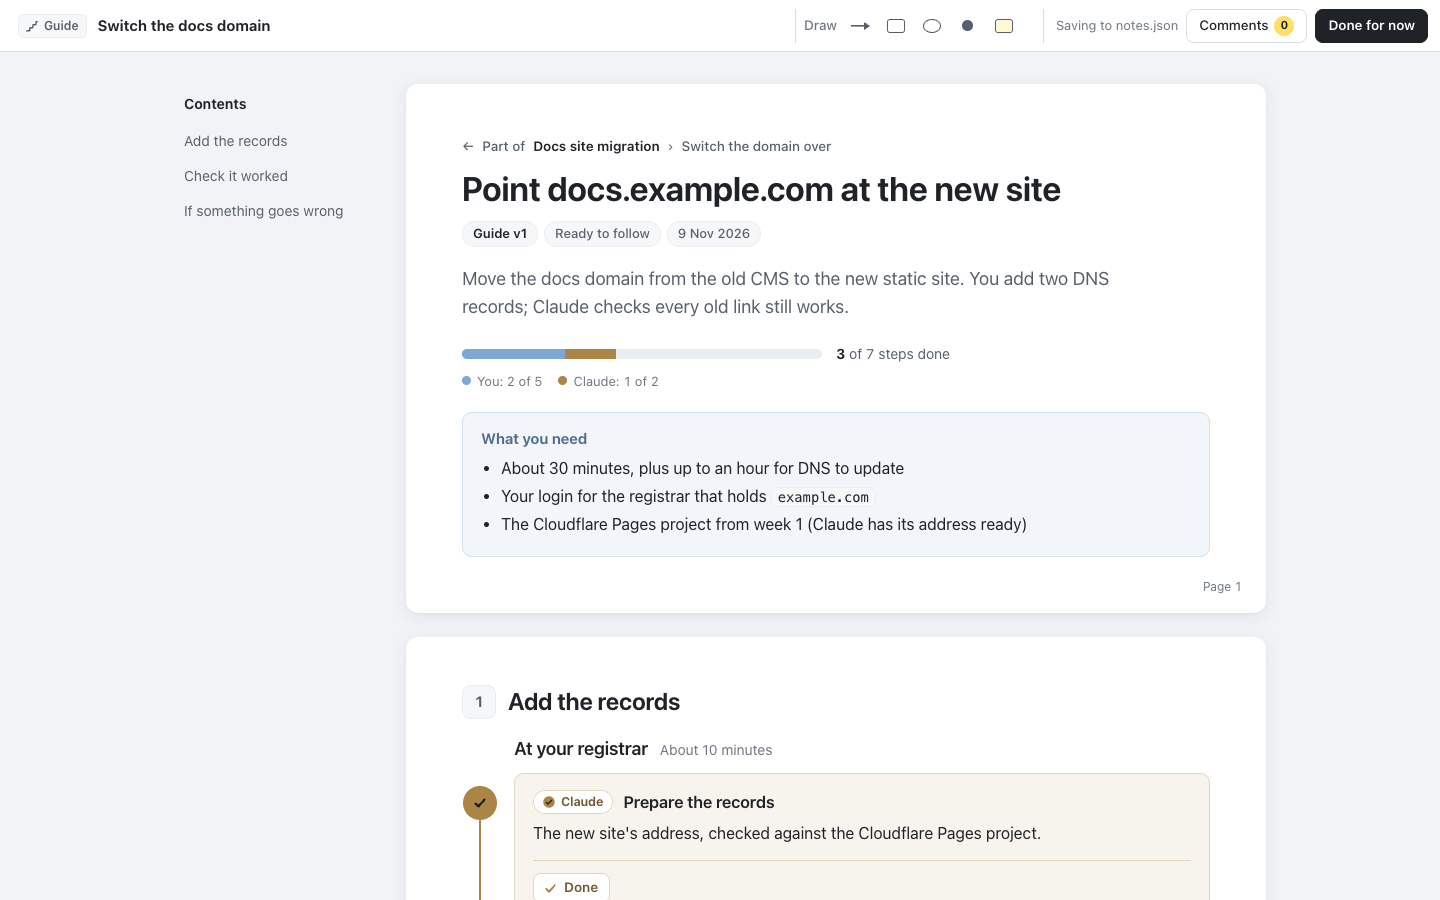
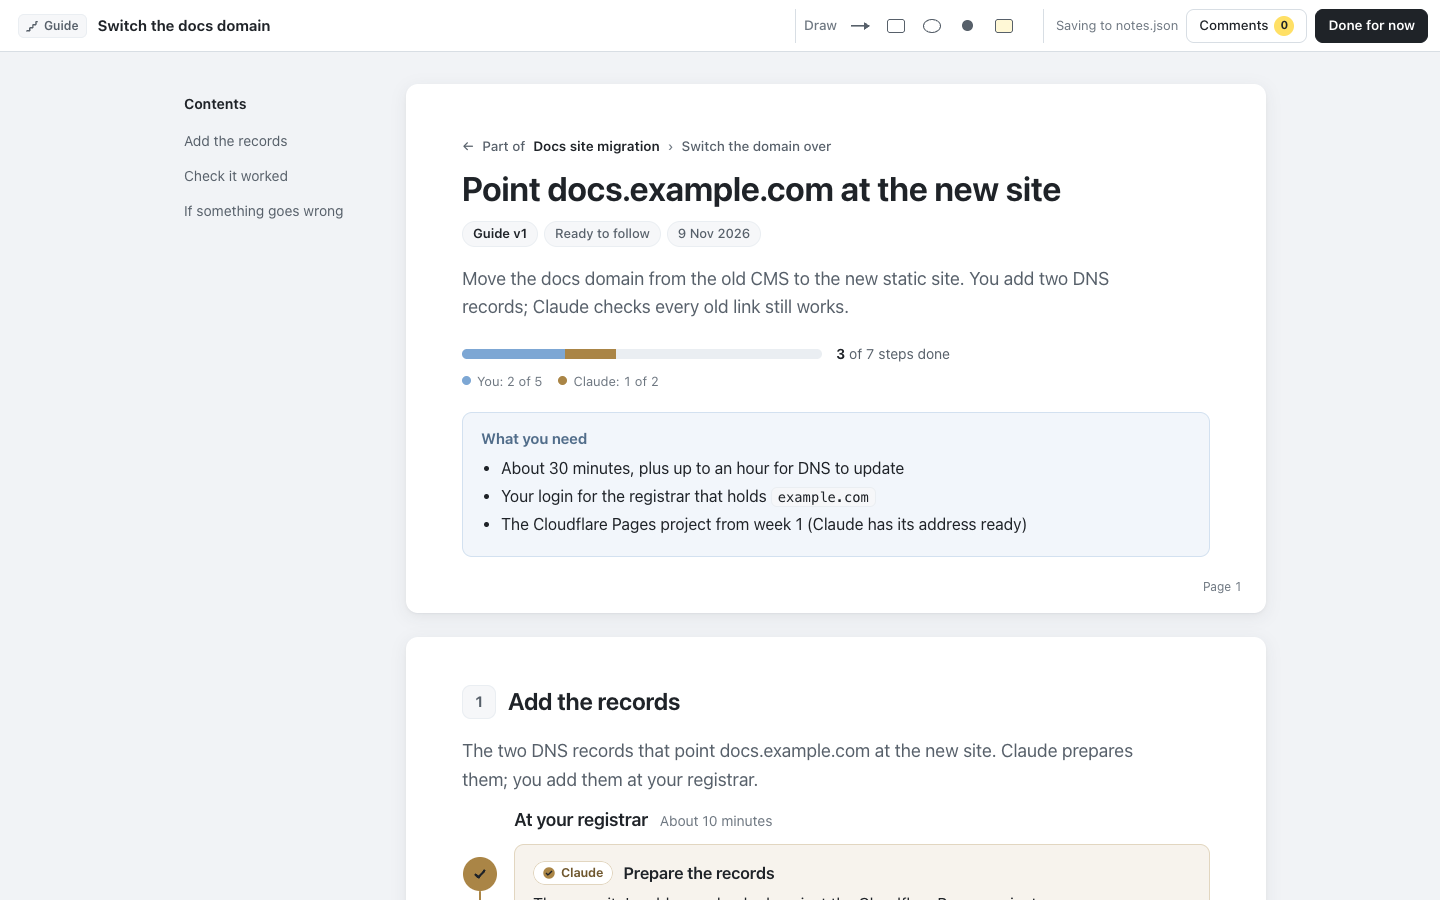
Every section opens with a one-sentence summary
All three templates and their writing skills: a lede after every section's
h2 saying what it covers and why it's there. In a plan, a section that
describes what gets built says so and names the phase that builds it.
process-notes brings older pages up to the rule as it revises them.

Changed region(s): [[0.3125, 0.8089, 0.7812, 0.9956], [0.5938, 0.9956, 0.6562, 1.0]]

diff --git a/templates/plan.html b/templates/plan.html
@@ -24,6 +24,7 @@
     <ul class="tasks">              optional, Claude's phases only: a short checklist, <li data-status="todo|doing|done">
     <pre data-label="Terminal">     a code block; the label shows in its header ("Terminal", "redirects.json"…)
     <section class="sec" id data-id> a major part; gets a section comment; one per contents entry
+    <p class="lede"> after a section's h2   one sentence: what the section covers and why it's here
     .decision[data-decision]        a pick-one question; .rec marks the recommendation
     aside.explain[data-q]           Claude's answer to a reader's question, written where it was asked
     data-changed="v2"               an element revised in v2: shown with an "Updated in v2" chip
@@ -329,6 +330,7 @@ dl.defs > dd p { margin: 6px 0 0; }
 
 <section class="sec" id="context" data-id="context">
   <h2>Where we are</h2>
+  <p class="lede">How the docs work today, and the options we compared before picking one.</p>
   <div class="entry item" data-id="ctx-stale"><div class="k">Stale pages</div><div class="stat">18 of 60</div><p>Pages describing options that have since changed.</p></div>
   <div class="entry item" data-id="ctx-time"><div class="k">Time to publish</div><div class="stat">About a day</div><p>Edits go through a separate CMS and a manual deploy.</p></div>
   <h3>Options compared</h3>
@@ -344,6 +346,7 @@ dl.defs > dd p { margin: 6px 0 0; }
 
 <section class="sec" id="approach" data-id="approach">
   <h2>How it works</h2>
+  <p class="lede">What the finished docs site does: the design, not the work. The <a href="#phases">phases</a> build it, starting with Scaffold and import.</p>
   <ul class="tight">
     <li class="item" data-id="ap-source"><b>One source.</b> Pages are Markdown files in <code>docs/</code>, next to the code.</li>
     <li class="item" data-id="ap-preview"><b>Preview on every pull request.</b> Reviewers see the rendered page before merging.</li>
@@ -357,7 +360,7 @@ dl.defs > dd p { margin: 6px 0 0; }
 
 <section class="sec" id="phases" data-id="phases">
   <h2>Phases</h2>
-  <p>Four phases over three weeks. Your part in the switch-over has its own guide.</p>
+  <p class="lede">The work, in order: four phases over three weeks, yours in blue and Claude’s in gold. Your part in the switch-over has its own guide.</p>
   <div class="phases">
     <article class="phase" data-id="ph-scaffold" data-who="claude" data-status="doing">
       <h3>Scaffold and import</h3>
@@ -392,6 +395,7 @@ dl.defs > dd p { margin: 6px 0 0; }
 
 <section class="sec" id="risks" data-id="risks">
   <h2>What could go wrong</h2>
+  <p class="lede">What could stop the move going smoothly, how likely each is, and what guards against it.</p>
   <div class="table-wrap"><table>
     <thead><tr><th>Risk</th><th>Likelihood</th><th>Mitigation</th></tr></thead>
     <tbody>
@@ -403,7 +407,7 @@ dl.defs > dd p { margin: 6px 0 0; }
 
 <section class="sec" id="decisions" data-id="decisions">
   <h2>Decisions for you</h2>
-  <p>Pick one in each. Add a comment if none fits.</p>
+  <p class="lede">Choices only you can make before the work starts. Pick one in each, or add a comment if none fits.</p>
 
   <div class="decision" data-decision="generator" data-id="d-generator">
     <h3>Which generator?</h3>

diff --git a/templates/reference.html b/templates/reference.html
@@ -326,6 +326,7 @@ dl.defs > dd p { margin: 6px 0 0; }
 
 <section class="sec" id="overview" data-id="overview">
   <h2>Overview</h2>
+  <p class="lede">What goes in, what comes out, and where it runs.</p>
   <div class="entry item" data-id="ov-input"><div class="k">Input</div><h3>Markdown in <code>docs/</code></h3><p>One file per page. The folder structure becomes the URL structure.</p></div>
   <div class="entry item" data-id="ov-output"><div class="k">Output</div><h3>Static HTML in <code>dist/</code></h3><p>Deployed by Cloudflare Pages on every merge to <code>main</code>, with a preview for every pull request.</p></div>
   <div class="entry item" data-id="ov-time"><div class="k">Build time</div><h3>About 20 seconds</h3><p>For 60 pages on the CI runner. Locally, <code>dev</code> rebuilds one page on save.</p></div>
@@ -333,6 +334,7 @@ dl.defs > dd p { margin: 6px 0 0; }
 
 <section class="sec" id="commands" data-id="commands">
   <h2>Commands</h2>
+  <p class="lede">The commands you run, and what each one does.</p>
   <dl class="defs">
     <dt class="item" data-id="cmd-dev"><code>npm run docs:dev</code></dt>
     <dd>Serves the site at <code>http://localhost:4321</code> and rebuilds a page when its file changes.</dd>
@@ -345,7 +347,7 @@ dl.defs > dd p { margin: 6px 0 0; }
 
 <section class="sec" id="config" data-id="config">
   <h2>Configuration</h2>
-  <p>Every option lives in <code>docs/site.config.json</code>. Only <code>title</code> and <code>baseUrl</code> are required.</p>
+  <p class="lede">Every option in <code>docs/site.config.json</code>, with its default. Only <code>title</code> and <code>baseUrl</code> are required.</p>
   <div class="table-wrap"><table>
     <thead><tr><th>Option</th><th>Default</th><th>What it does</th></tr></thead>
     <tbody>
@@ -364,6 +366,7 @@ dl.defs > dd p { margin: 6px 0 0; }
 
 <section class="sec" id="build" data-id="build">
   <h2>How a build runs</h2>
+  <p class="lede">What happens, in order, every time the site builds.</p>
   <ul class="tight">
     <li class="item" data-id="b-read"><b>Read.</b> Every <code>.md</code> file under <code>docs/</code> is parsed, with its front matter.</li>
     <li class="item" data-id="b-render"><b>Render.</b> Each page is rendered into the layout named in its front matter, else <code>default</code>.</li>
@@ -374,6 +377,7 @@ dl.defs > dd p { margin: 6px 0 0; }
 
 <section class="sec" id="files" data-id="files">
   <h2>Files</h2>
+  <p class="lede">The files a build reads and writes, and what each one is for.</p>
   <div class="table-wrap"><table>
     <thead><tr><th>Path</th><th>What's in it</th></tr></thead>
     <tbody>
@@ -386,6 +390,7 @@ dl.defs > dd p { margin: 6px 0 0; }
 
 <section class="sec" id="terms" data-id="terms">
   <h2>Terms</h2>
+  <p class="lede">The words this reference uses, defined.</p>
   <dl class="defs">
     <dt class="item" data-id="t-front">Front matter</dt>
     <dd>The block of settings at the top of a Markdown file, between <code>---</code> lines.</dd>

diff --git a/templates/guide.html b/templates/guide.html
@@ -324,6 +324,7 @@ dl.defs > dd p { margin: 6px 0 0; }
 
 <section class="sec" id="records" data-id="records">
   <h2>Add the records</h2>
+  <p class="lede">The two DNS records that point docs.example.com at the new site. Claude prepares them; you add them at your registrar.</p>
   <div class="phase-h"><h3>At your registrar</h3><span class="when">About 10 minutes</span></div>
   <div class="steps">
     <div class="step item" data-id="g-records-ready" data-who="claude" data-status="done"><h4>Prepare the records</h4>
@@ -349,6 +350,7 @@ Value: &lt;VERIFICATION_TOKEN&gt;</code></pre>
 
 <section class="sec" id="check" data-id="check">
   <h2>Check it worked</h2>
+  <p class="lede">Make sure the new site answers on the old domain and old links land on the right pages.</p>
   <div class="phase-h"><h3>Once DNS updates</h3><span class="when">Up to an hour after the last step</span></div>
   <div class="steps">
     <div class="step item" data-id="g-dig" data-who="you"><h4>Check where docs points</h4><div class="when">About 1 minute</div>
@@ -363,6 +365,7 @@ Value: &lt;VERIFICATION_TOKEN&gt;</code></pre>
 
 <section class="sec" id="trouble" data-id="trouble">
   <h2>If something goes wrong</h2>
+  <p class="lede">What you might see on the way, and what to do about it.</p>
   <div class="table-wrap"><table>
     <thead><tr><th>You see</th><th>Do this</th></tr></thead>
     <tbody>

diff --git a/templates/changes-section.html b/templates/changes-section.html
@@ -10,6 +10,7 @@
 -->
 <section class="sec" id="changes" data-id="changes">
   <h2>What changed in v2</h2>
+  <p class="lede">What your v1 notes changed, and the decisions you made.</p>
   <div class="table-wrap"><table>
     <thead><tr><th>You said</th><th>What changed</th></tr></thead>
     <tbody>

diff --git a/skills/make-plan/SKILL.md b/skills/make-plan/SKILL.md
@@ -46,10 +46,13 @@ Copy `${CLAUDE_PLUGIN_ROOT}/templates/plan.html` and replace every piece of exam
 | `<ul class="tasks">` | Optional, Claude's phases only | Three to six short lines, each `<li data-status="todo\|doing\|done">`, so the user can see progress inside the phase. Never the user's steps: those go in a guide. |
 | `data-guide="guides/<slug>/index.html"` | A phase done through a guide | The phase shows the guide's name and progress instead of Mark done, links to it, and counts as done when the guide is. The path is relative to the plan. |
 | `<pre data-label="…"><code>` | Shapes worth showing: a folder layout, a config sketch | The label shows in the block's header beside **Copy**. |
-| `<section class="sec" id data-id>` | Each major part | Starts with an `<h2>`. One per contents entry. |
+| `<section class="sec" id data-id>` | Each major part | Starts with an `<h2>` and its one-sentence lede. One per contents entry. |
+| `<p class="lede">` | Right after every section's `<h2>` | **Every section opens with one sentence saying what it covers and why it's there**, before any steps, phases, tables or lists. Never start a section straight into its content. |
 | `.decision[data-decision="key"]` | Each choice only the user can make | An `<h3>` question, then 2 to 4 radios sharing `name="key"`. Put each option's name in `<b>` with its consequence in one line, and mark your pick with `<span class="rec">Recommended</span>`. Gather them in a "Decisions for you" section. |
 | `<p class="slug">` | Under the `<h1>` | `<span>Plan v1</span><span>For review</span><span>DATE</span>`. Match `<meta name="plan-version">` (start at `1`) and `<meta name="plan-date">` (`YYYY-MM-DD`). |
 | `<div class="progress" data-pm-progress></div>` | The hero, after the lede | Keep it empty: the review layer draws the phases' progress there. |
+
+**Keep the design and the work apart, and say which is which.** A plan has two kinds of section: ones that describe **what gets built** (how it works, what it looks like, what changes) and the **Phases** section, which is the work. A design section's lede says so and names the phase that builds it ("What the finished hub shows. The Hub phase builds it."). Each phase's **Done when** names what it produces. A reader should never have to wonder whether a section is something to do.
 
 Write for someone skimming in a browser: lead each entry with its point, and keep each phase to what it achieves and why. Write no eyebrow labels and no section or phase numbers yourself (they're drawn for you). Keep heading levels in order: `<h2>` for sections, `<h3>` for entries, phases and decisions. Use sentence case in `<title>`.
 

diff --git a/skills/make-guide/SKILL.md b/skills/make-guide/SKILL.md
@@ -43,7 +43,8 @@ Copy `${CLAUDE_PLUGIN_ROOT}/templates/guide.html` and replace every piece of exa
 |---|---|---|
 | `<meta name="pm-parent" content="../../index.html">` and `<meta name="pm-parent-phase" content="<phase id>">` | A guide made from a plan's phase | The plan's path relative to this page, and the phase's `data-id`. The page then shows "Part of <plan> › <phase>" above the title, linked. Leave both out for a guide on its own. |
 | `<div class="needs item" data-id="needs">` | The hero, after the progress slot | `<h2>What you need</h2>` and a short list: time, logins, values, tools. |
-| `<div class="steps">` under `<div class="phase-h"><h3>…</h3><span class="when">…</span></div>` | Each group of steps | Inside a `<section class="sec" id data-id>` with an `<h2>`. |
+| `<p class="lede">` | Right after every section's `<h2>` | **Every section opens with one sentence saying what it covers and why it's there**, before its first group of steps: what this part gets done ("The two DNS records that point the domain at the new site."). Never start a section straight into its content. |
+| `<div class="steps">` under `<div class="phase-h"><h3>…</h3><span class="when">…</span></div>` | Each group of steps | Inside a `<section class="sec" id data-id>` with an `<h2>` and its one-sentence lede. |
 | `class="step item" data-who="you\|claude\|both"` | Every step | An `<h4>` title that's the action ("Point docs at the new site"), `<div class="when">` for time and what it needs, then the body. |
 | `<pre data-label="…"><code>` | Every command, record or value to paste | The label shows in the block's header beside **Copy**: "Terminal", "DNS record", a file name. One block per thing to paste. |
 | `<p class="expect"><b>You should see</b> …</p>` | Steps whose result they can check | What it looks like when it worked. |

diff --git a/DESIGN.md b/DESIGN.md
@@ -122,7 +122,7 @@ All three templates share one style block, word for word, and the hub wears it t
 ## Layout
 
 - **Pages:** like a Word document, each section is its own white page (max 860px, radius 12px, soft shadow, 48px/56px padding), stacked 24px apart on the `ground`. The hero is the cover page. "Page n" sits small in each page's bottom-right corner. On wide screens a contents list sits to the left. On phones the pages run nearly edge to edge (8px margin, radius 10px, 16px padding).
-- **Sections:** h2 with a rounded number badge (34px, `paper-2`) before it.
+- **Sections:** h2 with a rounded number badge (34px, `paper-2`) before it, then a one-sentence lede (`.lede`, 18px, `ink-2`) saying what the section covers and why it's there. Every section has one, on every kind of page, so no section opens straight into its steps, phases or tables. In a plan, the lede also says whether the section describes what gets built or is the work itself.
 - **Timeline:** inside a section, every entry, list item, callout, step and decision is a numbered node (2.1, 2.2…) on a vertical line on the left. Nodes are 34px circles on a 2px `line-2` line, with content indented 52px.
   - **Steps:** a node takes its owner's colour (tint fill, ring). It fills solid with a check when done, the line below a done node takes the owner's colour, and the next undone step (whoever owns it) gets a soft halo ring.
   - **The line** breaks between runs, e.g. across a phase heading.

diff --git a/skills/make-reference/SKILL.md b/skills/make-reference/SKILL.md
@@ -32,7 +32,8 @@ Copy `${CLAUDE_PLUGIN_ROOT}/templates/reference.html` and replace every piece of
 | `<meta name="pm-source" content="a/b.mjs, c.json">` | The head | The files it describes, relative to the project root, comma-separated. When one is changed after the reference was written, the page and the hub say it's out of date. |
 | `<div class="contents">` | The hero | An `<h2>Contents</h2>` and an `<ol>` linking every section. The side rail mirrors it on wide screens. |
 | `<p class="meta">` | The hero | What it describes and as of when: "Describes `docs/build.mjs` … as of 9 Nov 2026." |
-| `<section class="sec" id data-id>` | Each topic | An `<h2>`, then the content. One per contents entry. |
+| `<section class="sec" id data-id>` | Each topic | An `<h2>`, its one-sentence lede, then the content. One per contents entry. |
+| `<p class="lede">` | Right after every section's `<h2>` | **Every section opens with one sentence saying what it covers and why it's there**, before its tables, definitions or examples: what someone looking here will find. Never start a section straight into its content. |
 | `<dl class="defs">` | Terms, commands, fields | `<dt class="item" data-id>` then `<dd>`. Code names in `<code>`. |
 | tables | Options, files, fields with several attributes | `<tr class="item" data-id>` on every row. Columns like Option, Default, What it does. |
 | `<p class="sig">` | A signature or command shape | Monospace, one per shape. |

diff --git a/CHANGELOG.md b/CHANGELOG.md
@@ -24,6 +24,7 @@
 - **Drawing**: draw tools, always in the top bar, add arrows, boxes, circles, points and sticky notes anywhere on the page. They're anchored to the block under them, saved in `notes.json` as `drawings[]` and read by `process-plan-notes`.
 - The toolbar is now a bar fixed to the top of the page; on phones it takes two rows.
 
+- **Every section opens with a one-sentence summary** (`<p class="lede">` after its `<h2>`) saying what it covers and why it's there, in all three templates and their writing skills. In a plan, a section that describes what gets built says so and names the phase that builds it, so design is never mistaken for steps.
 - **Running servers in the hub**: every review server on this machine, by page, with whether a tab has it open. Orphans (page deleted or moved, a duplicate server) are flagged; **Stop** one, the orphans, the ones not in use, or servers from older versions. Each server keeps a record in `~/.plan-maker/servers/` (`lib/servers.mjs`), so it's found on any port, and a second start reuses it there too.
 - **Idle stop**: an open tab pings its server once a minute; a server with no tab for `--idle-hours` (or `PLAN_MAKER_IDLE_HOURS`; default 12, `0` never) stops itself. Sleep doesn't count. The page says when its server has stopped.
 - The registry tests no longer leave a review server running after each run.

diff --git a/skills/process-notes/SKILL.md b/skills/process-notes/SKILL.md
@@ -91,7 +91,7 @@ Don't start a review server for each guide: the phase's card opens it.
 
 Edit the page in place (its path stays the same, so the user's URL keeps working):
 
-- Make every change from the table, following the writing rules for the page's kind. Edited elements keep their `data-id`; new elements get new ids; ids of cut elements are not reused. If the page relied on ids assigned in the browser (`autoIds`), write explicit `data-id`s and `class="item"`s now, reusing the auto ids where the element survives.
+- Make every change from the table, following the writing rules for the page's kind. A page from before a rule existed is brought up to it as you go: every section you touch (and any section that lacks one) gets its one-sentence lede. Edited elements keep their `data-id`; new elements get new ids; ids of cut elements are not reused. If the page relied on ids assigned in the browser (`autoIds`), write explicit `data-id`s and `class="item"`s now, reusing the auto ids where the element survives.
 - Mark every element you edited or added with `data-changed="v<N+1>"`: the page shows it with an "Updated in v<N+1>" chip. Remove `data-changed` attributes left from earlier rounds.
 - **Answer every question where it was asked.** Add an `aside.explain` inside the step or entry it was about, right after the part it concerns:
   ```html
